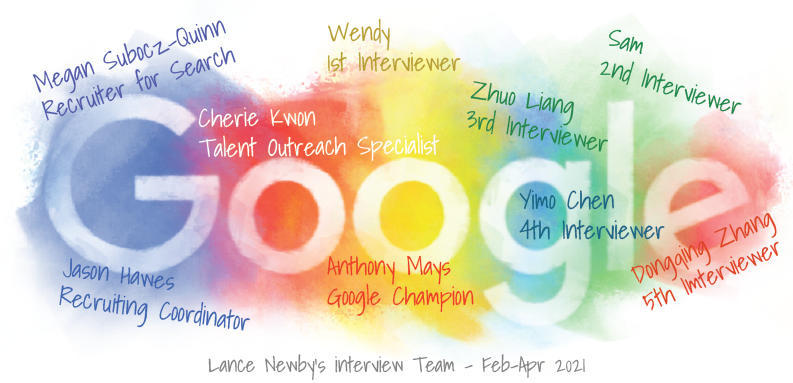
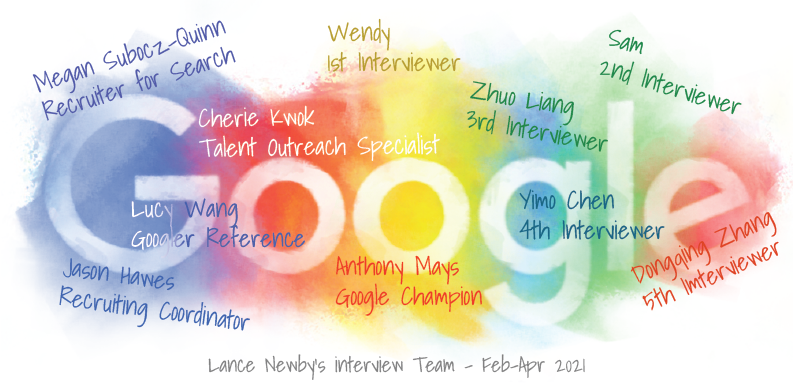
correct Cherie Kwok's name + add Lucy Wang

diff --git a/js/game.js b/js/game.js
@@ -712,7 +712,16 @@ function startGame(difficulty = GameStatus.MEDIUM) {
    (  /)(//)/( (/()(/,  (__)()()(/((-/ _) . 
                /               _/           
 `);
-    console.log("Starting Game...");
+    console.log("Cherie Kwok - Talent Outreach Specialist");
+    console.log("Megan Subocz-quinn - Recruiter for Search");
+    console.log("Jason Hawes - Recruiting Coordinato");
+    console.log("Anthony Mays - Google Champion");
+    console.log("Wendy - 1st Interviewer");
+    console.log("Sam - 2nd Interviewer");
+    console.log("Zhuo Liang - 3rd Interviewer");
+    console.log("Yimo Chen - 4th Interviewer");
+    console.log("Dongqing Zhang - 5th Interviewer");
+    console.log("Lucy Wang - Googler Reference");
 
     GameState.STATUS = GameStatus.IN_PROGESS;
     GameState.DIFFICULTY = difficulty;
